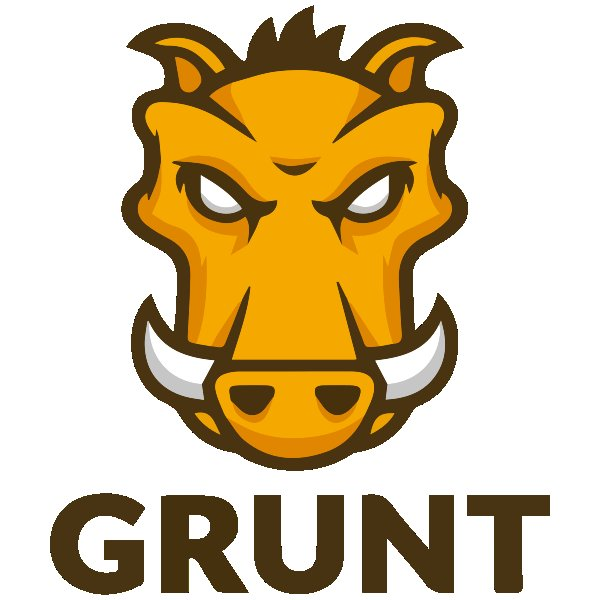
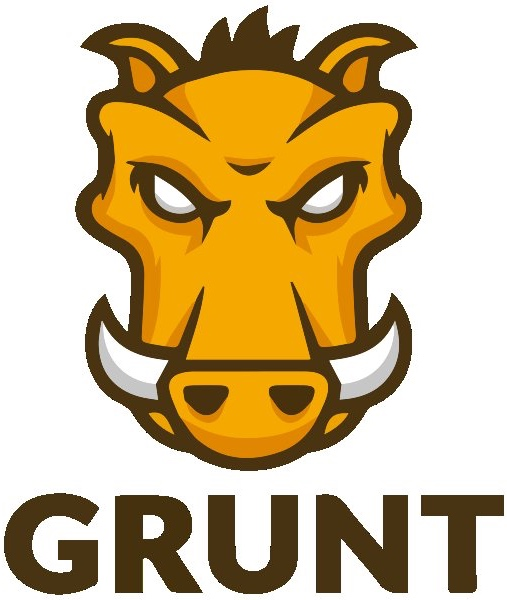
cropped images for better display. added an image for technologies. adjusted sizes and margins

diff --git a/scripts/bundle.js b/scripts/bundle.js
@@ -46,14 +46,14 @@ const portfolioItems = [
     name: "Daily Journal",
     text: "This was a project that I created at Nashville Software School. It allows the user to input journal entries and select an instructor, a mood, and tag names. It saves the entries through an API Post call and then uses Fetch to grab all entries and render to the page. It also allows the user to sort their entries through the moods input.",
     github: "https://github.com/braddavistech/NSS_Daily_Journal",
-    languages: ["JavaScript", "jQuery", "HTML", "CSS", "Github", "Git", "Grunt", "Node", "Slack", "VS"],
+    languages: ["JavaScript", "jQuery", "HTML", "CSS", "Github", "Browserify", "Git", "Grunt", "Node", "Slack", "VS"],
     img: ["../images/dj1.jpg", "../images/dj2.jpg"]
   },
   {
     name: "Welcome to Nashville",
     text: "This was a project that my team created at Nashville Software School. It allows the user to search for restaurants, Ticketmaster events, Metro-Nashville parks, and Eventbrite events. This application uses continuous API calls to the different databases to get up-to-date information. It also has the ability to save your created itineraries and display past itineraries through a local json file.",
     github: "https://github.com/braddavistech/Welcome_To_Nashville",
-    languages: ["JavaScript", "HTML", "CSS", "Github", "Git", "Grunt", "Node", "Slack", "VS"],
+    languages: ["JavaScript", "HTML", "CSS", "Github", "Browserify", "Git", "Grunt", "Node", "Slack", "VS"],
     img: ["../images/nashville1.jpg", "../images/nashville2.jpg"]
   },
   {
@@ -122,6 +122,9 @@ const PORTFOLIO = {
             break;
           case "Atom":
             portfolioEntry += `<img src="../images/atomimage.jpg" class="languagePic" alt="${language}">`;
+            break;
+          case "Browserify":
+            portfolioEntry += `<img src="../images/browserifyimage.jpg" class="languagePic" alt="${language}">`;
             break;
         }
 

diff --git a/scripts/personalPortfolio.js b/scripts/personalPortfolio.js
@@ -3,14 +3,14 @@ const portfolioItems = [
     name: "Daily Journal",
     text: "This was a project that I created at Nashville Software School. It allows the user to input journal entries and select an instructor, a mood, and tag names. It saves the entries through an API Post call and then uses Fetch to grab all entries and render to the page. It also allows the user to sort their entries through the moods input.",
     github: "https://github.com/braddavistech/NSS_Daily_Journal",
-    languages: ["JavaScript", "jQuery", "HTML", "CSS", "Github", "Git", "Grunt", "Node", "Slack", "VS"],
+    languages: ["JavaScript", "jQuery", "HTML", "CSS", "Github", "Browserify", "Git", "Grunt", "Node", "Slack", "VS"],
     img: ["../images/dj1.jpg", "../images/dj2.jpg"]
   },
   {
     name: "Welcome to Nashville",
     text: "This was a project that my team created at Nashville Software School. It allows the user to search for restaurants, Ticketmaster events, Metro-Nashville parks, and Eventbrite events. This application uses continuous API calls to the different databases to get up-to-date information. It also has the ability to save your created itineraries and display past itineraries through a local json file.",
     github: "https://github.com/braddavistech/Welcome_To_Nashville",
-    languages: ["JavaScript", "HTML", "CSS", "Github", "Git", "Grunt", "Node", "Slack", "VS"],
+    languages: ["JavaScript", "HTML", "CSS", "Github", "Browserify", "Git", "Grunt", "Node", "Slack", "VS"],
     img: ["../images/nashville1.jpg", "../images/nashville2.jpg"]
   },
   {
@@ -79,6 +79,9 @@ const PORTFOLIO = {
             break;
           case "Atom":
             portfolioEntry += `<img src="../images/atomimage.jpg" class="languagePic" alt="${language}">`;
+            break;
+          case "Browserify":
+            portfolioEntry += `<img src="../images/browserifyimage.jpg" class="languagePic" alt="${language}">`;
             break;
         }
 

diff --git a/stylings/main.css b/stylings/main.css
@@ -180,6 +180,7 @@
 .languagePic {
   background-color: white;
   display: inline-flex;
+  vertical-align: middle;
   width: 6%;
   margin: 1.5%;
 }
